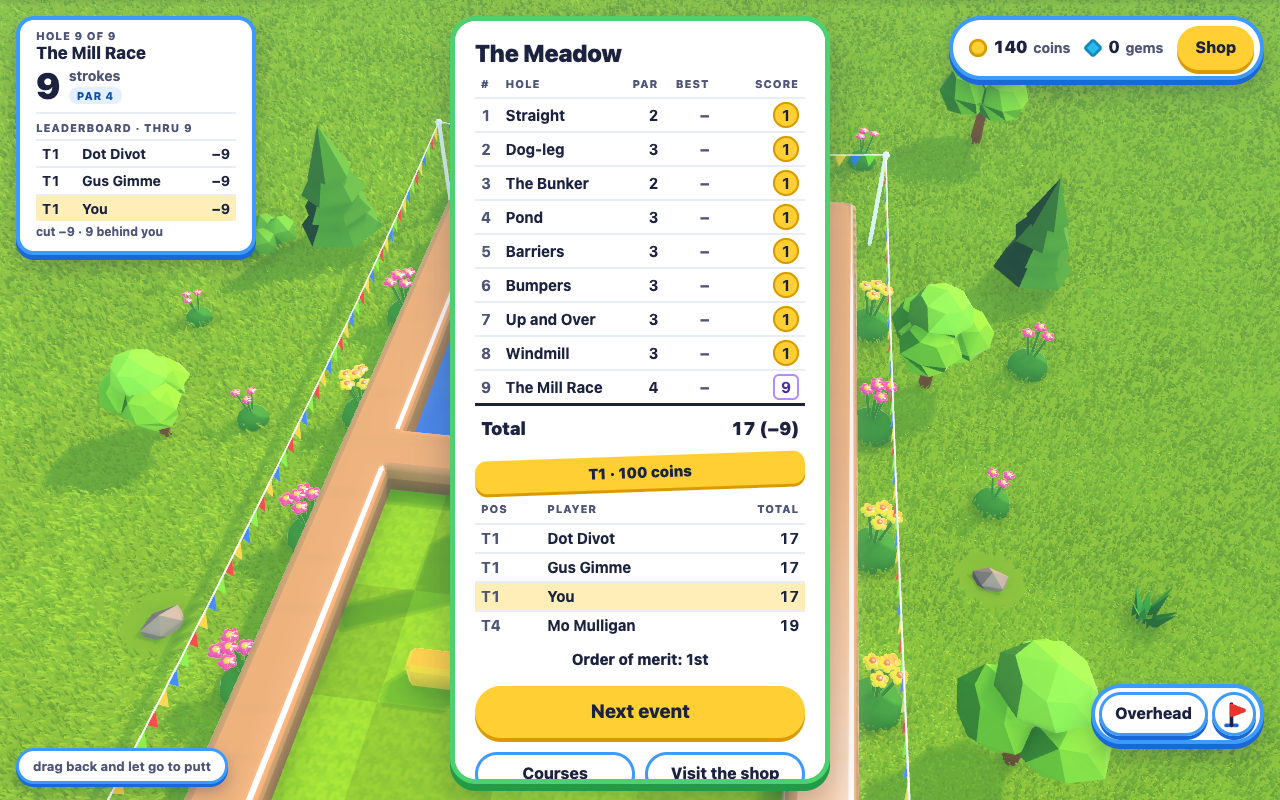
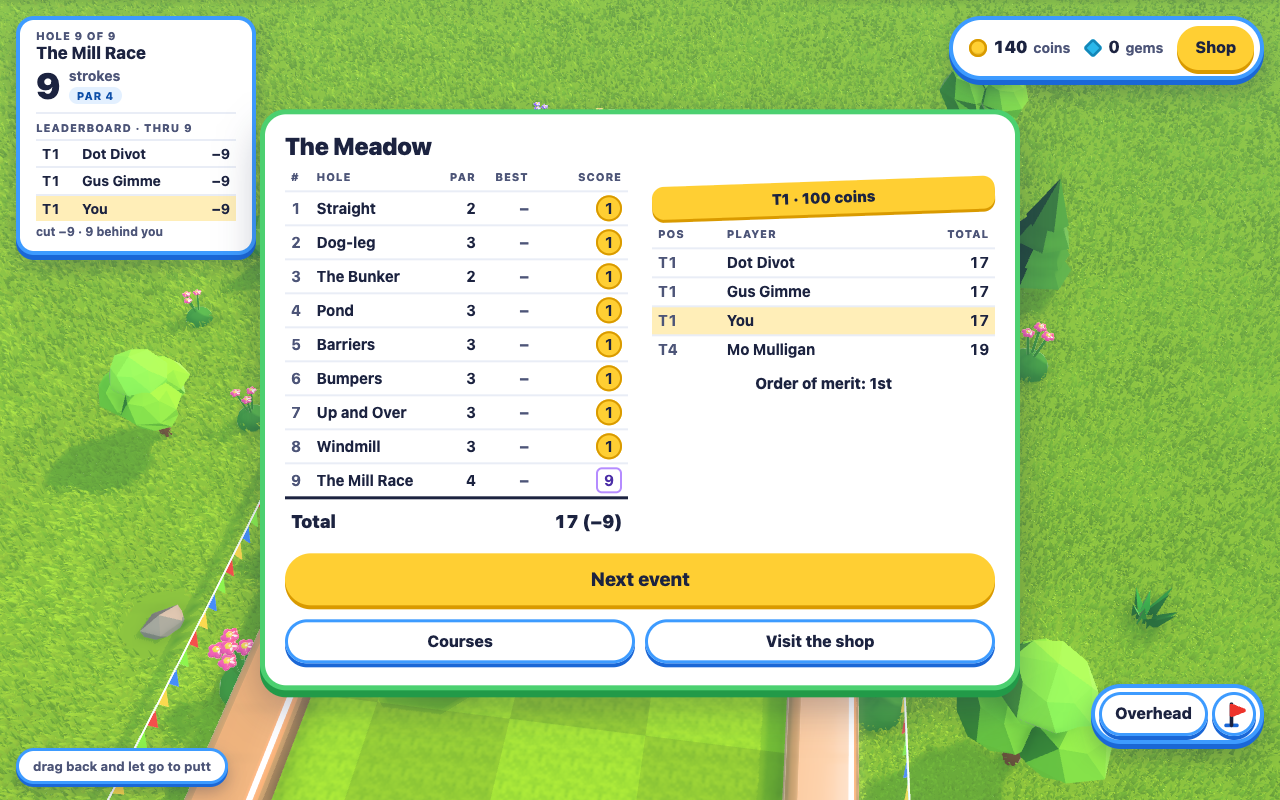
On a desk the card at an event's end is two columns, the save's ceiling is 10,800, and CLAUDE.md says how the career plays as a season
The user's choices of 16 October 2026, from the open points after Part 7 of ~/.claude/plans/wobbly-sprouting-gizmo.md. On a
desk the card at an event's end was taller than the screen and scrolled its Courses and shop buttons out of sight: it is now
two columns there, the scores and beside them the place, the field and the order of merit, with its buttons across the foot
(`#card[data-results]`); a phone keeps its one column, which fits. `event-results.png` is written again for it and looked at.
The save's ceiling is 10,800 bytes, from 10,500, against the 10,164 measured with both tours' seasons at their longest, which is
room for about six holes more again. A reload part way round a hole of an event begins it again from the tee, with that hole's
strokes uncounted, so a bad shot can be undone: left so at the user's word, and said in CLAUDE.md's list of what is not there.

The look tests now wait for the start screen's strip of holes to be drawn before a picture: under the full check's load the
phone's start screen with the Install button was taken with its strip not yet decoded.

CLAUDE.md's career bullet is the season (tours, grades, the rival table and how it is made, fees and the free club grade,
practice that pays its holes, the screens), and the fuzzer's career stream, the save's figure and the test API's `season`,
`enter`, `practise` and `tournamentHud` are said.
[…]

diff --git a/index.html b/index.html
@@ -1374,6 +1374,40 @@
     margin-top: 16px;
     font-size: 19px;
   }
+  /* on a desk the card at an event's end is two columns, the scores and beside them the place, the field and the order of
+     merit, with its buttons across the foot, since one column of both is taller than a desk's screen (the user's choice of
+     16 October 2026); a phone keeps one column, which fits */
+  @media (min-width: 601px) and (min-height: 501px) {
+    #card[data-results] {
+      display: grid;
+      grid-template-columns: minmax(0, 1fr) minmax(0, 1fr);
+      grid-template-areas: 'head head' 'scores prize' 'scores results' 'next next' 'pair pair';
+      grid-template-rows: auto auto 1fr auto auto;
+      column-gap: 24px;
+      align-content: start;
+      width: min(760px, calc(100vw / var(--ui, 1) - 32px));
+    }
+    #card[data-results] > h2 {
+      grid-area: head;
+    }
+    #card[data-results] > table {
+      grid-area: scores;
+      align-self: start;
+    }
+    #card[data-results] > #cardPrize {
+      grid-area: prize;
+      align-self: start;
+    }
+    #card[data-results] > #cardResults {
+      grid-area: results;
+    }
+    #card[data-results] > #nextEvent {
+      grid-area: next;
+    }
+    #card[data-results] > .pair {
+      grid-area: pair;
+    }
+  }
   @media (max-width: 600px) {
     /* a phone's event: the order of merit under the card, small, so the card, the table and Enter fit without scrolling */
     #start[data-event] #picker {

diff --git a/smoke/look.spec.ts b/smoke/look.spec.ts
@@ -52,9 +52,18 @@ async function offerInstall(page: Page) {
   await expect(page.locator('#install')).toBeVisible();
 }
 
-/** The corner that counts the milliseconds a frame takes is different every run, and says nothing about the look. */
+/**
+ * The corner that counts the milliseconds a frame takes is different every run, and says nothing about the look; and the
+ * start screen's strip of holes is pictures fetched as a course is shown, which under a loaded machine were seen not yet drawn
+ * when a picture was taken (16 October 2026, the phone's start screen with the Install button), so they are waited for.
+ */
 async function hideStats(page: Page) {
   await page.locator('#stats').evaluate((el: HTMLElement) => (el.hidden = true));
+  await page.waitForFunction(() =>
+    Array.from(document.querySelectorAll<HTMLImageElement>('#courseStrip img')).every(
+      (i) => i.complete && i.naturalWidth > 0,
+    ),
+  );
 }
 
 /**
@@ -1582,6 +1591,7 @@ test.describe('what it looks like', () => {
     test('the start screen, on its side', async ({ page }) => {
       const problems = watch(page);
       await start(page, { seed: 11, paused: true, screen: true });
+      await hideStats(page);
       await expect(page).toHaveScreenshot('landscape-start.png', TOLERANCE);
       expect(problems).toEqual([]);
     });

diff --git a/scripts/leaks.ts b/scripts/leaks.ts
@@ -47,9 +47,9 @@ export const WATCH: Partial<Record<string, { ceiling: number; steady?: boolean }
   // course fails the test before it fails the gate. 15 October 2026: the career's record of each of the nine courses and
   // a round kept at its last hole, measured the same way at 9,800 bytes, held to the byte; 10,500 is that and about six
   // holes more. Later that day the season of each tour, at the longest grade with a full season less one event played in
-  // two-figure scores, and the event round kept with its tour: 10,164 bytes, held to the byte, which leaves 336 under the
-  // ceiling, about three holes)
-  'save bytes': { ceiling: 10_500 },
+  // two-figure scores, and the event round kept with its tour: 10,164 bytes, held to the byte; the ceiling raised to 10,800 on
+  // 16 October 2026 at the user's word, which is that and about six holes more again)
+  'save bytes': { ceiling: 10_800 },
   // emptied at every new round: never more than a score a hole
   'card scores': { ceiling: COURSE.length },
   // the bodies in the rehearsal a golf hole's shots are previewed in: the ball, however many shots are tried, and the

diff --git a/src/hud.ts b/src/hud.ts
@@ -1355,6 +1355,9 @@ export class Hud {
   private drawResults(results: Results | null): void {
     this.cardHeading.textContent = results ? results.course : 'The card';
     this.cardResults.hidden = !results;
+    // the card is laid out wider on a desk while it shows an event's field beside its scores (`data-results`)
+    if (results) this.card.dataset.results = '';
+    else delete this.card.dataset.results;
     this.againButton.hidden = results !== null;
     this.nextButton.hidden = results === null;
     if (!results) return;

diff --git a/CLAUDE.md b/CLAUDE.md
@@ -225,10 +225,12 @@ today, and what the next features must hand it:
   a flipper through every phase of its swing, and strikes onto a stream, where the ball must be carried and never told lost
   (`lostOnStreamProblems`, checked as a loss is told).
   The career's buttons are on a stream of their own (`careerer`): Career or Free play at a round's first tee or its end
-  (`choose career or free play`), and the card of the round kept (`continue`), which a reload also takes, held to go on
-  from the hole after the last it finished with its card as it was (`checked['round gone on with']`); a course chosen is
-  named, as the page names it, and a run `--on` a course of the game's names its rounds too; each prize told is of a round that
-  counts, at its last hole, and in free play no pay is told and none is made (`checked['free hole paid nothing']`).
+  (`choose career or free play`), entering an event of either tour (with a windfall of two fees now and then when short, on that
+  stream), practising, giving an event up by choosing a course, and going on with the event kept, which a reload also takes
+  (`checked['event gone on with']`); `entered` is told once a fee, a refused entry changes nothing, a place told is held to its
+  rules (`checked['event placed']`), practice pays its holes and touches no season (`checked['practice paid its hole']`), and in
+  free play no pay is told and none is made (`checked['free hole paid nothing']`). The fuzzer's saves start the golf tour at the
+  county grade, where an event has a fee, and the mini tour at the club grade, which is free.
   On golf each ball come to rest is held to the zones' lie (`lieProblems`, `checked['lie at rest']`, which a test holds above nothing),
   and the fly-in to every hole is held to `flyInProblems` every frame (`checked.flying` counts the frames it was).
   On a hole with a wood's lane it drives along the lane from the tee, slipped, and on a hole with land wholly in water it
@@ -328,8 +330,8 @@ today, and what the next features must hand it:
   name's, and it moved the figure from 34.63 to 35.44).
 - **Leaks:** ten minutes of the autopilot playing round after round, on The
   Meadow and again on each golf course (`GOLF_COURSES` in `scripts/leaks.ts`: the six, under
-  the Links' ceilings but for the save's bytes, 10,500 since 15 October 2026 for eighty-one holes' bests, the career's nine
-  course records and a round kept at its last hole (9,800 measured, held to the byte by `test/leaks.test.ts`); `leaks:check` queues the seven, an hour and ten minutes, and `--on` narrows a run to one kind for a short look; a test holds that a hole
+  the Links' ceilings but for the save's bytes, 10,800 since 16 October 2026 for eighty-one holes' bests, the career's nine
+  course records, both tours' seasons at their longest and an event kept (10,164 measured, held to the byte by `test/leaks.test.ts`); `leaks:check` queues the seven, an hour and ten minutes, and `--on` narrows a run to one kind for a short look; a test holds that a hole
   with a lane is collectable, so `laneOf`'s cache keeps nothing alive, and one each that `zonesOf`'s and `pondOf`'s tables are weak; the
   arena's reused ground weights are emptied at 256, held by a test, and nothing of the new caches is kept for a game's life, so
   nothing was added to `scripts/leaks.ts`). The card is emptied each round and
@@ -1234,26 +1236,37 @@ minigolf: true }`, read through `oceanFor`) is the one switch: `waterBed` and `s
   not sell is dropped and a slot is read only if owned, so a save from before the three aisles loads with its coins, gems and bests and
   no items. `Game` pays into it when a hole is done (golf too; never in free play, see the career), and buys, equips (`equip`,
   `unequip(aisle)`) from it. Every save shape is in `test/saves/`. Chance comes from `random.ts`, handed in.
-- **The career** (15 October 2026; `src/career.ts`, a leaf). The save has a `mode`, `career` (the default, and what every save
-  from before it loads as, since every round was paid) or `free`; `records`, each course's best round in the career by its name
-  (strokes, par, the kit worn, the day, `when`, which `Game` is told by its `today` option and is '' without one); and `round`,
-  the career round under way (`SavedRound`: the course's name, the next hole from nought, the card, the retake spent and whether
-  a hole was picked up). A round counts (`Game.counting`) when it is of a named course (`Game.of`, a `RoundOf`: the name and the
-  course's `purse`, `Course.purse`, 1 for minigolf and 1.2 to 2 on golf by how hard the pace player finds it), played in the career,
-  and not a rehearsal's; `playCourse(holes, of)` names a round, `adopt(of)` names the untouched first tee the page already has,
-  and holes with no `of` (a test's, the title's, and any round `startAt` jumps into) pay their holes as ever and keep nothing.
-  A counting round is kept after each hole done, and at its last pays `prizeOf` (`PRIZE`: 20 times the purse, 10 a stroke under
-  par, 25 for a record) on top of the hole's pay, told by `roundPaid(coins, record)` after `paid` and before `finished`; a record
-  is a round with no hole picked up, under the one held (`isRecord`). `newRound`, and a course's card, give up a round kept;
-  `resume(holes, of)` goes on with it from its next hole's tee, its card and retake as they were, and refuses (and lets go) one
-  of another course or with no hole left. In free play (`setMode`, which leaves the round in play no course's) nothing is paid,
-  no best or record kept, no round kept and no piggy bank spent. On the start screen the mode is one cycle button beside Play
-  (`#playMode`, "Career mode" or "Free play"; it was on the heading's line until the picker's tabs took it), the course in
-  view's first pill says its record ("Record 31") where its count of holes stood, and the picker opens on the course of the
-  round kept, whose first pill says "On hole 4" and whose Play is Continue and goes on with it (`Hud.setCareer`, which redraws
-  the picker; the test API's `continueRound` presses that Play). The card at the end has a Best column and says the prize, a new record as a sticker, or "Free
-  play: nothing won". `careerProblems` holds it in `checkInvariants`. A reload keeps the round between holes and not where a
-  ball lies part way round one, so that hole is begun again from its tee.
+- **The career is a season of tournaments** (15 and 16 October 2026; plan `~/.claude/plans/wobbly-sprouting-gizmo.md`, which says
+  what was chosen from its mock and why). Two tours, golf (the six courses in their order, six events) and mini (three), each of
+  three grades, club, county and championship; each event is a field of the player and eleven named rivals (`src/rivals.ts`, a
+  roster a grade, skills S2 to S4, S1 to S3 and S0 to S2), whose cards are drawn hole by hole from `src/field.json` by a hash of
+  the season's seed, the event, the rival and the hole, so no chance of the game's is spent and the same season is the same field.
+  The table is made by `npm run field` (`scripts/make-field.ts`, about twenty minutes: the autopilot at the five `RIVAL_SKILLS` of
+  `src/field.ts` for 32 rounds of every course, as the pace gate plays one, `scripts/field-round.ts`), keyed by each hole's hash
+  (`src/holehash.ts`), and `test/field.test.ts` fails, saying to run it, when a course, the autopilot or a skill changes (it
+  plays The Meadow again to the count). The arithmetic is `src/season.ts` (a leaf: fee, stake and pot, places shared on a tie and
+  their money pooled as in golf, points 25, 18, 15 down to 1, the top three going up a grade) and `src/tournament.ts` (a season put
+  together: `nextEvent`, `eventField`, `seasonMerit`, `finishEvent`); `src/tours.ts` is the real season the page hands the game
+  (`GameOptions.season`). A course's stake is 25 coins a point of its purse; the fee is the stake, **and nothing at the club grade**
+  (the user's choice of 16 October 2026, since a new player had no way to a first fee); the pot is twelve stakes at every grade,
+  paid 50, 30 and 20 per cent, and a course record's 25 on top. The save has `season`, each tour's grade, seasons begun, the
+  events played this season (the player's card, or null for one given up) and titles; a round kept is an event's (`SavedRound.tour`,
+  kept from its first tee, so a reload cannot lose a fee), and one from before the seasons, with no tour, is dropped.
+  `Game.enter(tour)` takes the fee and begins the event (refused in free play, without a season or short of coins, changing
+  nothing), `resume` goes on with it, and entering again, `newRound`, `playCourse` or `adopt` of a named course gives it up, recorded
+  as missed, the fee spent. At its last hole the round is placed, paid and told by `roundPaid` and then `placed` (a `Placement`),
+  the card added to the season, and at a season's end the top three go up a grade, or win a title at the championship.
+  `Game.practise` plays a course paying its holes and keeping their bests as any paid hole (the user's choice: a player short of a
+  fee can earn it), and no prize, record, round or season; the retake is refused in an event. A course played in the career that
+  is no event pays its holes and keeps nothing. Free play (`setMode`) pays and keeps nothing, as before. On the page, in the career
+  each tab of the start screen is its tour's next event (`Hud.setEvents`: the line over its name, Par, Entry and Purse as the
+  tiles, the order of merit beside the card on a desk and under it on a phone, Enter, Continue for an event kept, or "Need N
+  coins", and Practise), the leaderboard is the foot of the hole's panel thru the holes finished (`Hud.setBoard`, in a phone's
+  drawer), and the card at an event's end shows the place and prize, the field's top four and you, the order of merit's move and a
+  season's end, with Next event (`finished`'s `Results`; two columns on a desk). The words are `src/eventwords.ts`. Under the title
+  a phone has no room for the strip of holes, the line about the field or the order of merit's fourth row, which go there.
+  `careerProblems` holds the season in `checkInvariants`. A reload keeps the round between holes and not where a ball lies part
+  way round one, so that hole is begun again from its tee.
 - `src/physics.ts` is the game's side of artshape-physics, and nothing else
   imports the package directly. A change a package needs goes in that repo,
   with a version bump here, as v0.4.1 was for a ball put to sleep in the
@@ -1371,6 +1384,10 @@ from what the last frame placed; and `map()`, the hole's map over the course: it
 landing of the shot being aimed are on it. `state()` has the shape and the spin chosen, the hole's `wind` (x, y, speed), its `greens` speed and its name (`greenSpeed`: `fast`,
 `medium`, `slow` or null) and `arrows`, how many stand over its green;
 `career()` says the mode, the records, the round kept, the course the round in play is of and whether it counts;
+`season()` says each tour's season as the save has it, the event in play, whether the round is practice, and the leaderboard as
+drawn; `enter(tour)` and `practise(tour)` press that tour's tab and its event card's button (false where it is not to be pressed);
+`tournamentHud({ events, board, results })` hands the hud fixed figures for a test of the drawing alone; `chooseCourse` puts the
+career's event cards away before it steps the picker, a shortcut no player has;
 `playMode(mode)` presses the start screen's mode button until it shows that mode, and `continueRound()` presses the card of the
 round kept (false with none);
 `app()` says the service worker's registration (`worker`: `none`, `registering`, `ready` or `failed`), whether the browser
@@ -1455,9 +1472,9 @@ each step, and a gate handed what it needs in the same change:
   `touches` in `smoke/game.ts` now wait for the panels to land (`landed`), and `pullDown` says what was under the finger
   when a drag aims nothing. One miss in about 420 runs since the switch moved was seen once and not caught again, so its
   cause is not proven; the next one names itself.
-- The ball part way round a hole, in the save: a reload goes on with a career round from the tee of the hole it was on
-  (and a round of free play is not kept at all). And a career round kept cannot be begun again on its own course from the
-  start screen, since that card is the way to go on with it: it is given up by choosing another course, or played out.
+- The ball part way round a hole, in the save: a reload goes on with an event from the tee of the hole it was on, with none
+  of that hole's strokes counted, so in an event a bad shot can be undone by reloading (left so at the user's word on 16 October
+  2026). A round of free play or practice is not kept at all.
 - Steps a ball meets as ledges. v0.8.0's `stepEdges` bounces a ball off a
   step's top edge and lets it climb a riser only with speed; tried on the
   game, Up and Over's median went from 2 to 4 and four tests failed, so it
